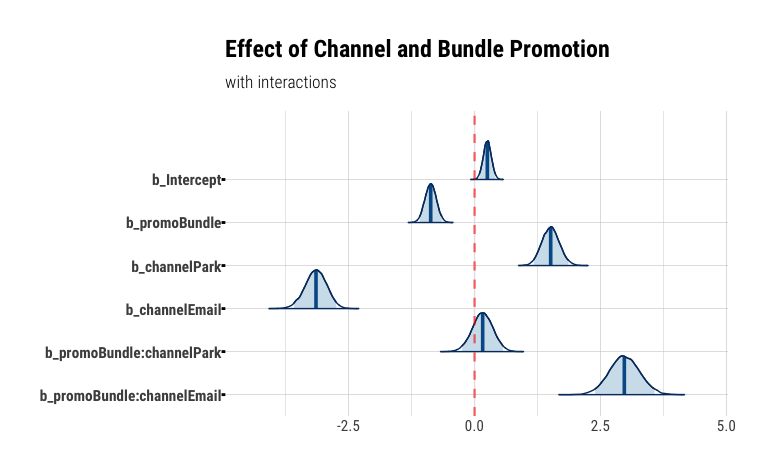
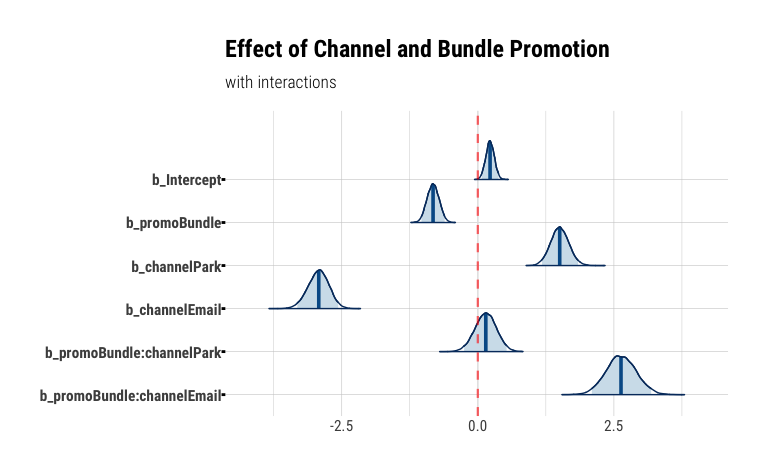
Post update with less diffuse priors and model comparison

diff --git a/_posts/2020-07-07-season-pass-hierarchical-modelng-r-stan-brms.md b/_posts/2020-07-07-season-pass-hierarchical-modelng-r-stan-brms.md
@@ -17,7 +17,6 @@ In this post we’ll take another look at logistic regression, and in particular
 
 R has been a mainstay in statistical modeling and data science for years, but more recently has been pinned into a needless competition with Python. In fact, R has a rich and robust package ecosystem, including some of the best statistical and graphing packages out there. R, along with Python and SQL, should be part of every data scientist’s toolkit. I’ve not used R in quite a while, in favor of Python and the occasional adventure in Julia, but it’s important to recognize that we should use the right tool for the job, not just always the one that’s most convenient. Especially using the `tidyverse` package ecosystem makes data wrangling (and increasingly modeling) code almost trivial and downright fun. I encourage folks that have been away from R for a bit to give it another go\!
 
-
 For this post, I'm using a few R libraries we'll import first:
 
 ``` r
@@ -53,6 +52,7 @@ Let’s take a quick `glimpse` at the data. Looks like we have Bernoulli style d
 ``` r
 glimpse(season_pass_data)
 ```
+
     ## Rows: 3,156
     ## Columns: 3
     ## $ Channel <chr> "Mail", "Mail", "Mail", "Mail", "Mail", "Mail", "Mail", "Mail…
@@ -128,6 +128,7 @@ season_pass_data_grp %>%
     pivot_wider(names_from = promo, values_from = bought_pass) %>%
     adorn_totals("col") 
 ```
+
     ##  channel NoBundle Bundle Total
     ##     Mail      359    242   601
     ##     Park      284    639   923
@@ -232,23 +233,46 @@ Given the relatively small number of overall email-attributed sales, it makes se
 
 In classical modeling, our first instinct here would be to model this as logistic regression, with `bought_pass` as our response variable. So, if we wanted to measure the overall effectiveness of our bundle offer, we’d set up a simple model using the `glm` module and get a `summary` of estimated coefficients. However, as good Bayesians that value interpretable uncertainty intervals, we’ll go ahead and use the excellent `brms` library that makes sampling via RStan quite easy.
 
-We'll set reasonably high value for the number of sampler iterations:
+We'll set reasonably high value for the number of sampler iterations and set a seed for more repeatable sampling results:
 
 ``` r
+# iterations to use for MCMC sampling
 iter <- 10000
 ```
 
-Instead of relying on the default priors in `brms`, we’ll use a fairly diffuse `Normal` prior for intercept and slope.
+Instead of relying on the default priors in `brms`, we’ll use a \(Normal(0, 1)\) prior for intercept and slope.
+
+Let’s do a quick check to see what that looks like:
+
+``` r
+draws <- 1000
+norm_df <- as_tibble(data.frame(sd_1 = rnorm(draws, mean = 0, sd = 1),
+                      sd_2 = rnorm(draws, mean = 0, sd = 2),
+                      sd_5 = rnorm(draws, mean = 0, sd = 5))) %>%
+    pivot_longer(cols = c(sd_1, sd_2, sd_5), names_to = "prior", values_to = "samples")
+
+ggplot(norm_df, aes(y = fct_rev(prior), x=samples, fill = stat(abs(x) < 2.5))) + 
+    stat_halfeye() +
+    scale_fill_manual(values = c("gray80", "skyblue")) +
+    # scale_x_continuous(breaks=seq(-10,10,1)) + 
+    labs(title = "Normal distribution priors",
+         x = "log-odds",
+         y  = "stdev")
+```
+
+<img src="/assets/plots/r-mlm-season-pass/normal_dist_priors.png" style="display: block; margin: auto auto auto 0;" /> This shows us that our \(Normal(0, 1)\) prior reasonably supports effect sizes from \~-2.5 to \~2.5 in log-odds terms, while a `sd` of 5 would likely be too diffuse for a marketing application.
+
 
 ``` r
 base_line_promo_model <- brm(bought_pass | trials(n) ~ 1 + promo,
-                             prior = c(prior(normal(0, 5), class = Intercept),
-                                       prior(normal(0, 5), class = b)),
+                             prior = c(prior(normal(0, 1), class = Intercept),
+                                       prior(normal(0, 1), class = b)),
                              data = season_pass_data_grp,
                              family = binomial(link = "logit"),
                              iter = iter
                              )
 ```
+
 
 We’ll take a quick look at chain divergence, mostly to introduce the excellent `mcmc` plotting functions from the `bayesplot` package.
 
@@ -273,8 +297,8 @@ summary(base_line_promo_model)
     ## 
     ## Population-Level Effects: 
     ##             Estimate Est.Error l-95% CI u-95% CI Rhat Bulk_ESS Tail_ESS
-    ## Intercept      -0.19      0.05    -0.29    -0.09 1.00    16450    12347
-    ## promoBundle     0.39      0.07     0.25     0.53 1.00    17456    12744
+    ## Intercept      -0.19      0.05    -0.29    -0.09 1.00    17195    12663
+    ## promoBundle     0.39      0.07     0.25     0.53 1.00    19154    13849
     ## 
     ## Samples were drawn using sampling(NUTS). For each parameter, Bulk_ESS
     ## and Tail_ESS are effective sample size measures, and Rhat is the potential
@@ -303,10 +327,10 @@ exp(fixef(base_line_promo_model))
 ```
 
     ##              Estimate Est.Error      Q2.5     Q97.5
-    ## Intercept   0.8254383  1.053558 0.7448517 0.9146389
-    ## promoBundle 1.4751278  1.075495 1.2781352 1.7024751
+    ## Intercept   0.8256735  1.053192 0.7457843 0.9135012
+    ## promoBundle 1.4732488  1.074321 1.2812300 1.6928569
 
-In terms of percent change, we can say that the odds of a customer buying a season pass when offered the bundle are 47.5% higher than if they’re not offered the bundle.
+In terms of percent change, we can say that the odds of a customer buying a season pass when offered the bundle are 47% higher than if they’re not offered the bundle.
 
 ### Aside: what the heck are log-odds anyway?
 
@@ -372,10 +396,10 @@ exp(fixef(base_line_promo_model))
 ```
 
     ##              Estimate Est.Error      Q2.5     Q97.5
-    ## Intercept   0.8254383  1.053558 0.7448517 0.9146389
-    ## promoBundle 1.4751278  1.075495 1.2781352 1.7024751
+    ## Intercept   0.8256735  1.053192 0.7457843 0.9135012
+    ## promoBundle 1.4732488  1.074321 1.2812300 1.6928569
 
-We can think of `1.4750` as the **odds ratio** of Bundle vs NoBundle, where ratio of `1` would indicate no improvement.
+We can think of `1.47` as the **odds ratio** of Bundle vs NoBundle, where ratio of `1` would indicate no improvement.
 
 What’s more, we can link the overall observed % of sales by Bundle vs Bundle to the combination of the coefficients. For predictive purposes, logistic regression in this example would compute the log-odds for a case of `NoBundle (0)` roughly as:
 
@@ -405,7 +429,7 @@ newdata <- data.frame(promo = factor(c("NoBundle", "Bundle")), n = 1)
 predict(base_line_promo_model, newdata)[c(1:2)]
 ```
 
-    ## [1] 0.45105 0.54905
+    ## [1] 0.45580 0.54565
 
 Logistic regression is probably one of the most underrated topics in modern data science.
 
@@ -427,8 +451,8 @@ Again using the `brms` library, it’s easy to add interaction terms using the `
 
 ``` r
 promo_channel_model_interactions <- brm(bought_pass | trials(n) ~ promo*channel, 
-                                        prior = c(prior(normal(0, 5), class = Intercept),
-                                                  prior(normal(0, 5), class = b)),
+                                        prior = c(prior(normal(0, 1), class = Intercept),
+                                                  prior(normal(0, 1), class = b)),
                                         data = season_pass_data_grp,
                                         family = binomial(link = "logit"),
                                         iter = iter)
@@ -457,19 +481,19 @@ summary(promo_channel_model_interactions)
     ## 
     ## Population-Level Effects: 
     ##                          Estimate Est.Error l-95% CI u-95% CI Rhat Bulk_ESS
-    ## Intercept                    0.25      0.08     0.10     0.41 1.00    16692
-    ## promoBundle                 -0.87      0.11    -1.09    -0.65 1.00    13784
-    ## channelPark                  1.51      0.17     1.18     1.86 1.00    11049
-    ## channelEmail                -3.15      0.21    -3.58    -2.75 1.00    12707
-    ## promoBundle:channelPark      0.16      0.21    -0.25     0.56 1.00    10857
-    ## promoBundle:channelEmail     2.98      0.30     2.39     3.57 1.00    13243
+    ## Intercept                    0.23      0.08     0.07     0.38 1.00    16539
+    ## promoBundle                 -0.82      0.11    -1.04    -0.61 1.00    13292
+    ## channelPark                  1.51      0.17     1.18     1.84 1.00    12442
+    ## channelEmail                -2.93      0.19    -3.32    -2.56 1.00    13130
+    ## promoBundle:channelPark      0.14      0.20    -0.25     0.53 1.00    11581
+    ## promoBundle:channelEmail     2.63      0.28     2.09     3.18 1.00    14116
     ##                          Tail_ESS
-    ## Intercept                   14853
-    ## promoBundle                 13391
-    ## channelPark                 11780
-    ## channelEmail                12117
-    ## promoBundle:channelPark     12026
-    ## promoBundle:channelEmail    12156
+    ## Intercept                   15435
+    ## promoBundle                 13451
+    ## channelPark                 12977
+    ## channelEmail                11293
+    ## promoBundle:channelPark     12322
+    ## promoBundle:channelEmail    13060
     ## 
     ## Samples were drawn using sampling(NUTS). For each parameter, Bulk_ESS
     ## and Tail_ESS are effective sample size measures, and Rhat is the potential
@@ -496,9 +520,9 @@ mcmc_areas(
 
 Three things immediately come to our attention:
 
-- the `Email` channel is associated with a -3.15 decrease in log odds of selling a season pass (vs the baseline channel `Mail` )
-- however, the interaction term `promoBundle:channelEmail`, i.e. the effect of the `Bundle` promo given the `Email` channel shows a \~3x increase in log-odds over the baseline
-- interestingly, the `Park` channel does not seem to meaningfully benefit from offering a bundle promotion, shown by it’s small coefficient with uncertainty interval spanning `0`
+  - the `Email` channel is associated with a -2.93 decrease in log odds of selling a season pass (vs the baseline channel `Mail` )
+  - however, the interaction term `promoBundle:channelEmail`, i.e. the effect of the `Bundle` promo given the `Email` channel shows a \~2.6x increase in log-odds over the baseline
+  - interestingly, the `Park` channel does not seem to meaningfully benefit from offering a bundle promotion, shown by the fact that its posterior uncertainty interval spans `0`
 
 So, while `Email` itself has shown to be the least effective sales channel, we see that offering a bundle promotion in emails seems to make the most sense. Perhaps, customers on our email list are more discount motivated than customers in other channels.
 
@@ -516,7 +540,7 @@ Luckily, it’s a fairly low-code effort to add grouping levels to our model. We
 
 ``` r
 promo_channel_model_hierarchical <- brm(bought_pass | trials(n) ~ 0 + (1 + promo || channel),
-                                        prior = c(prior(normal(0, 5), class = sd)),
+                                        prior = c(prior(normal(0, 1), class = sd)),
                                         data = season_pass_data_grp,
                                         control = list(adapt_delta = 0.95),
                                         family = binomial(link = "logit"),
@@ -531,15 +555,15 @@ tidy(promo_channel_model_hierarchical, prob = 0.95)
 ```
 
     ##                           term    estimate  std.error        lower       upper
-    ## 1        sd_channel__Intercept   2.8720920 1.48675939   1.19672735   6.8935430
-    ## 2      sd_channel__promoBundle   2.1567263 1.27624244   0.81757904   5.6469032
-    ## 3    r_channel[Mail,Intercept]   0.2537450 0.07963305   0.09733499   0.4116723
-    ## 4    r_channel[Park,Intercept]   1.7493075 0.15321905   1.45558853   2.0554104
-    ## 5   r_channel[Email,Intercept]  -2.8482983 0.19604272  -3.25390531  -2.4838843
-    ## 6  r_channel[Mail,promoBundle]  -0.8698846 0.11171531  -1.09155716  -0.6521658
-    ## 7  r_channel[Park,promoBundle]  -0.6940342 0.17151105  -1.03623924  -0.3635511
-    ## 8 r_channel[Email,promoBundle]   2.0272838 0.28068435   1.48506859   2.5846931
-    ## 9                         lp__ -31.5439369 2.54313133 -37.41339907 -27.5445567
+    ## 1        sd_channel__Intercept   1.6474093 0.44083166   0.96718634   2.6675482
+    ## 2      sd_channel__promoBundle   1.2971393 0.41328134   0.68779600   2.2841562
+    ## 3    r_channel[Mail,Intercept]   0.2516302 0.07991207   0.09517577   0.4102641
+    ## 4    r_channel[Park,Intercept]   1.7345214 0.15116990   1.44531211   2.0432732
+    ## 5   r_channel[Email,Intercept]  -2.7998359 0.19085414  -3.18817887  -2.4402991
+    ## 6  r_channel[Mail,promoBundle]  -0.8656247 0.11177860  -1.08634350  -0.6441599
+    ## 7  r_channel[Park,promoBundle]  -0.6770537 0.16946185  -1.01534697  -0.3494785
+    ## 8 r_channel[Email,promoBundle]   1.9538332 0.27617037   1.41420835   2.4971074
+    ## 9                         lp__ -33.4911697 2.28276427 -38.84004397 -30.1020599
 
 Another benefit of multi-level models is that each level is explicitly modeled, unlike traditional models where we typically model n-1 coefficients and are always left to interpret coefficients against some un-modeled baseline.
 
@@ -565,6 +589,31 @@ mcmc_areas(
 <img src="/assets/plots/r-mlm-season-pass/plot_promo_channel_model_hierarchical_areas-1.png" style="display: block; margin: auto auto auto 0;" />
 
 So, while we’ve seen that email response and take rates are the lowest of all channels, we can confidently tell our marketing partners that offering bundling via email has a positive effect that is worth studying more and gathering more data. Since email tends to be a cheaper alternative to conventional in-home mails, and certainly cheaper than shuttling people into the park, the lower response rate needs to be weighed against channel cost.
+
+## Model Comparison
+
+It’s worth noting that both the model with interactions and the hierarchical model predict essentially about the same probabilities for bundled sales via email or in the park. We can see from our plots that while the interactions model has more extreme estimates for intercept and interaction term, the hierarchical model constrains both the intercept for each channel and the varying slopes for each channel towards the group mean. So, while in the hierarchical model we estimate a lower slope for email (`1.95` vs `2.63`), we also estimate a slightly higher intercept for email (`-2.80` vs `-2.93`), resulting in roughly the same prediction as the interaction model.
+
+``` r
+newdata_channel <- data.frame(promo = factor(c("Bundle", "Bundle")), 
+                              channel = factor(c("Email", "Park")), n = 1)
+
+predict(promo_channel_model_interactions, newdata_channel)
+```
+
+    ##      Estimate Est.Error Q2.5 Q97.5
+    ## [1,]  0.29060 0.4540506    0     1
+    ## [2,]  0.74175 0.4376831    0     1
+
+``` r
+predict(promo_channel_model_hierarchical, newdata_channel)
+```
+
+    ##      Estimate Est.Error Q2.5 Q97.5
+    ## [1,]  0.30500 0.4604189    0     1
+    ## [2,]  0.74815 0.4340864    0     1
+
+The advantage for the hierarchical model in this case really comes from the ability to regularize the model more efficiently, and to be able to more easily interpret the coefficients. In more complex modeling challenges, hierarchical models really shine when there are more than one and/or nested grouping levels (hence “hierarchical”).
 
 ## Summary
 
